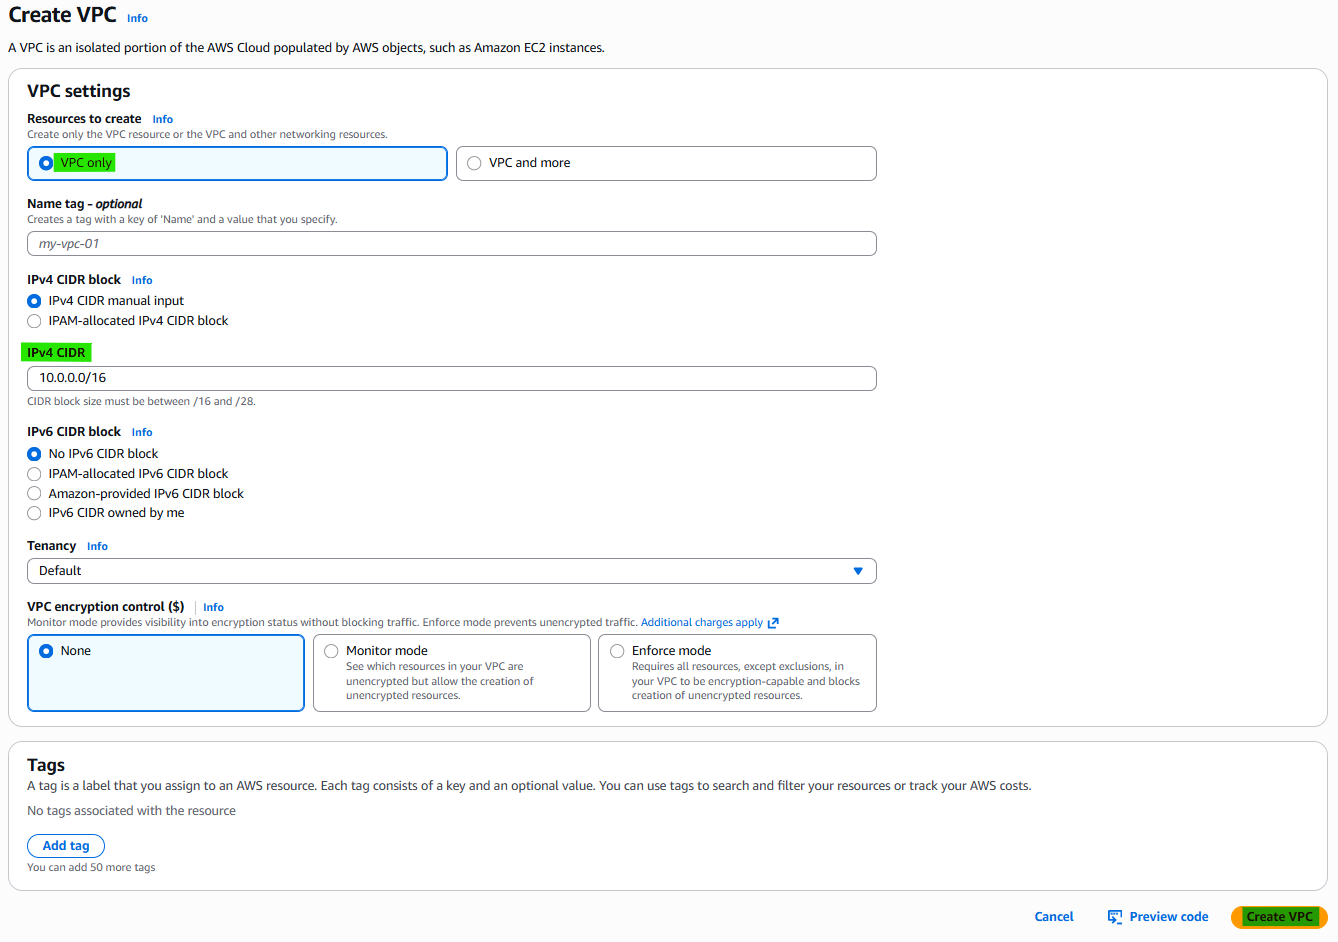
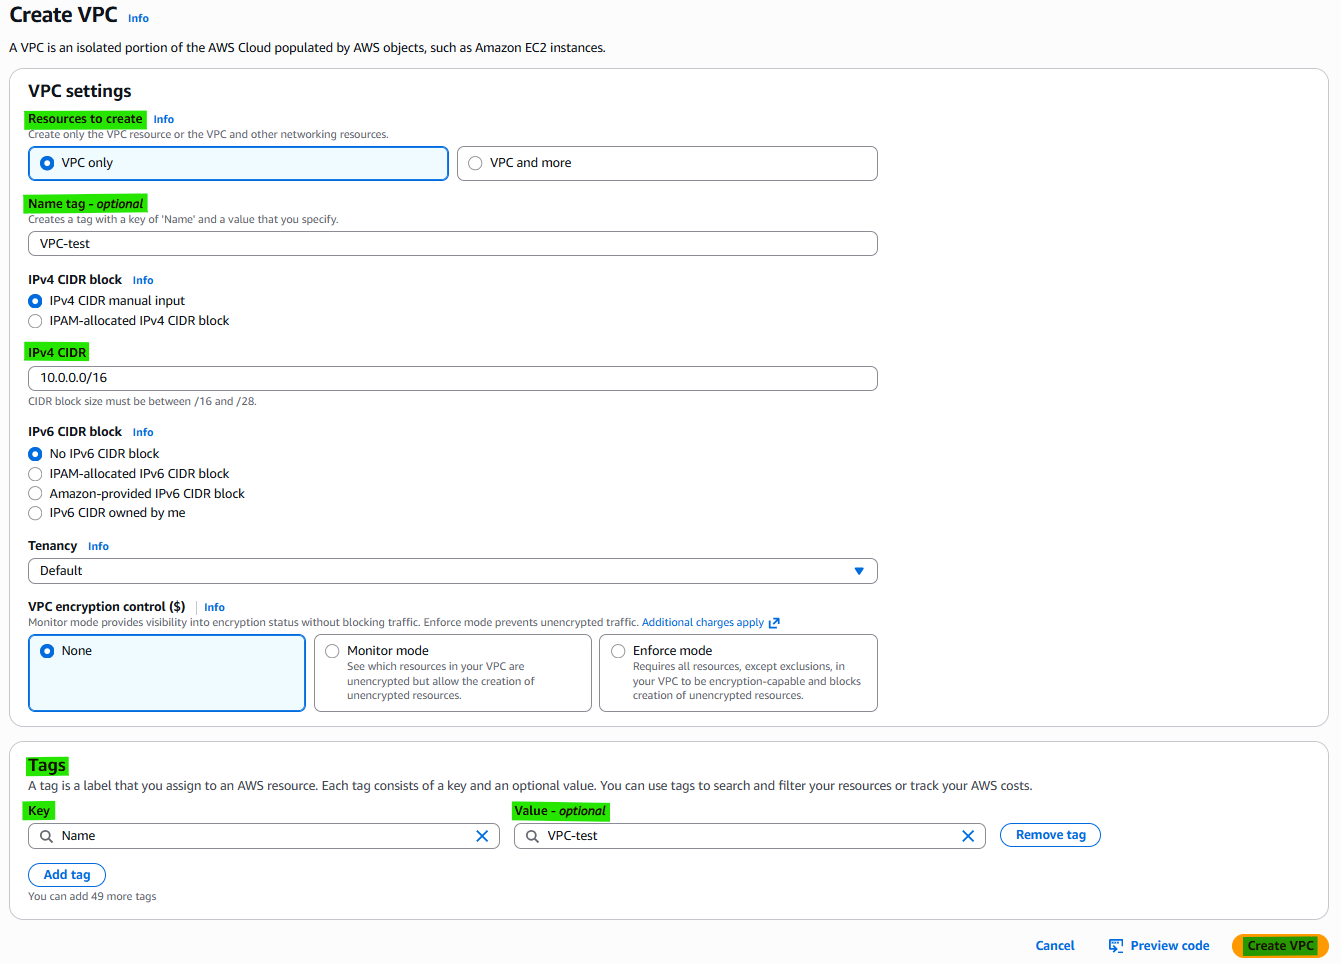
Subnet

diff --git a/_posts/2026-04-08-[AWS-05]Subnet.md b/_posts/2026-04-08-[AWS-05]Subnet.md
@@ -1,0 +1,140 @@
+---
+layout: post
+title: "05. Subnet"
+date: 2026-04-08 00:00:00 +0900
+author: kang
+categories: [AWS, AWS - Fundamental]
+tags: [AWS, AWS - Fundamental]
+pin: false
+math: true
+mermaid: true
+---
+
+# <b>Subnet</b>
+
+---
+
+### <b>Prerequisites</b>
+
+
+---
+
+## <b>1. Subnet</b>
+
+!["aws-vpc0"](/assets/img/develop/aws-vpc0.png)
+
+Subnet is a core component of VPC. It provides **Logical segmentation of a VPC network**
+
+A Subnet is:
+
+* A smaller network inside a VPC
+* Defined by a portion of the VPC IP range
+* Used to organize and isolate resources
+
+👉 Think of it as:
+
+> **Dividing one big network into smaller, controlled networks**
+
+Each subnet has its own CIDR block.
+
+!["aws-subnet5"](/assets/img/develop/aws-subnet5.png)
+
+```text
+VPC:    10.0.0.0/16
+Subnet: 10.0.1.0/24
+Subnet: 10.0.2.0/24
+```
+
+Each subnet belongs to **Exactly one Availability Zone (AZ)**
+
+## <b>2. Why Subnet works</b>
+
+```text
+Region
+ └── VPC
+      ├── Subnet A (AZ-a)
+      └── Subnet B (AZ-b)
+```
+
+* High availability design
+* Security/Fault isolation
+* Multi-AZ architecture
+* Network segmentation
+* Traffic control
+
+#### <b>2-1. Public Subnet</b>
+
+* Has route to Internet Gateway (IGW) and Nat Gateway
+* Can communicate with the internet
+
+👉 Used for:
+
+* Web servers
+* Load balancers
+
+#### <b>2-2. Private Subnet</b>
+
+* No direct route to IGW
+* Not accessible from the internet
+
+👉 Used for:
+
+* Databases (RDS)
+* Internal services
+
+#### <b>2-3. Subnet Design Pattern</b>
+
+Subnet itself does not enforce strong security.
+
+Security is handled by:
+
+* Security Group (instance-level)
+* NACL (subnet-level)
+
+Typical architecture:
+
+```text
+Internet
+   ↓
+[ Public Subnet ]
+   └── Load Balancer / Bastion
+   ↓
+[ Private Subnet ]
+   └── Application / Database
+```
+
+Example:
+
+* EC2 → choose subnet
+* RDS → placed in private subnet
+* ELB → placed in public subnet
+
+## <b>3. How to create Subnet</b>
+
+#### <b>3-1. Search VPC</b>
+
+!["aws-vpc0"](/assets/img/develop/aws-vpc0.png)
+
+#### <b>3-2. Click Navigation pane → "Subnets"</b>
+
+!["aws-subnet1"](/assets/img/develop/aws-subnet1.png)
+
+#### <b>3-3. Click Button → "Create Subnet"</b>
+
+!["aws-subnet2"](/assets/img/develop/aws-subnet2.png)
+
+#### <b>3-4. Step 1. Select VPC & Create public Subnet</b>
+
+!["aws-subnet3"](/assets/img/develop/aws-subnet3.png)
+
+#### <b>3-4. Step 2. Create private Subnet</b>
+
+!["aws-subnet4"](/assets/img/develop/aws-subnet4.png)
+
+## <b>4. Related Concepts</b>
+
+- Components
+    - VPC
+    - Internet Gateway
+    - Router table
+    - Nat Gateway